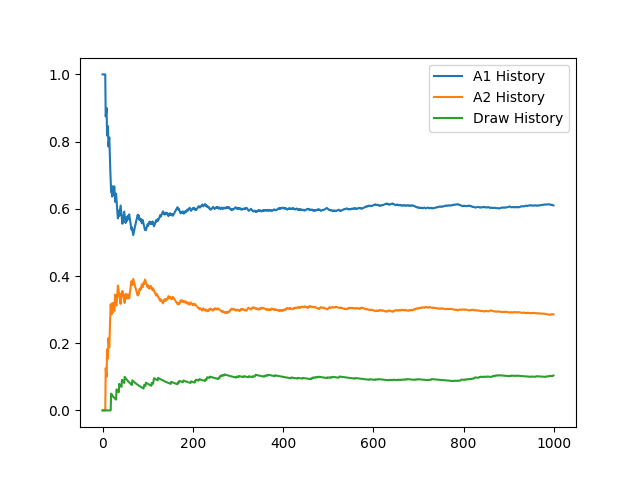
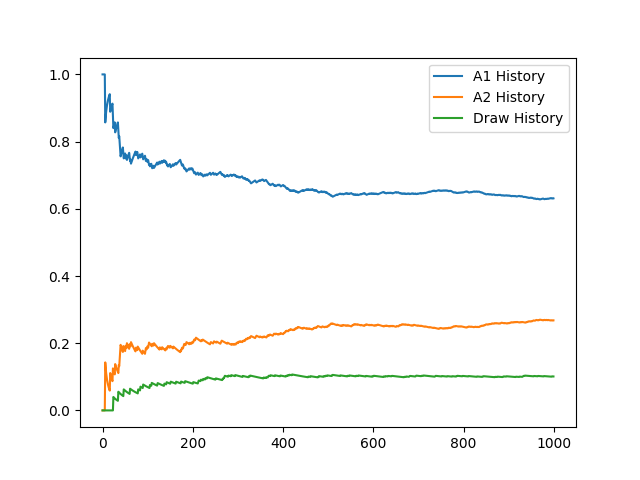
bugfix: negative updates

Changed region(s): [[0.1562, 0.5625, 0.875, 0.875], [0.1562, 0.1562, 0.875, 0.5], [0.4062, 0.7812, 0.8438, 0.8125]]

diff --git a/main.py b/main.py
@@ -1,9 +1,13 @@
+from pandas.core import window
 from agents import Agent, RandomPolicy, TDPolicy 
 from tictactoegame import Game
 from matplotlib import pyplot as plt
+import pandas as pd
 
 class Match:
     def __init__(self, agent_1: Agent, agent_2: Agent):
+        assert set([agent_2.mark, agent_1.mark]) == set(["x", "o"])
+
         self.agent_1 = agent_1
         self.agent_2 = agent_2
 
@@ -11,8 +15,12 @@ class Match:
         won = False
         winner = None
         turn = 0
+        if self.agent_2.mark == "x": 
+            order = [self.agent_2, self.agent_1]
+        else:
+            order = [self.agent_1, self.agent_2]
         while won is False and turn < 9:
-            moving_agent = [self.agent_1, self.agent_2][turn % 2]
+            moving_agent = order[turn % 2]
             game.update_state(moving_agent.predict(game))
             turn += 1
             if game.wins("x") or game.wins("o"):
@@ -21,28 +29,54 @@ class Match:
         return winner
 
 if __name__ == "__main__":
-    a_1 = Agent(TDPolicy(0.01, None, "x"), "x")
-    a_2 = Agent(RandomPolicy(), "o")
+    a_1 = Agent(TDPolicy(0.01, 0.1, None, "o"), "o")
+    # a_2 = Agent(TDPolicy(0.01, None, "o"), "o")
+    a_2 = Agent(RandomPolicy(), "x")
+    # a_1 = Agent(RandomPolicy(), "x")
     m = Match(a_1, a_2)
     a1_wins, a2_wins, draws, total = 0,0,0,0
     a_1_history, a_2_history, draw_history = [], [], []
+    history = []
 
-    for i in range(1000):
+    num_games = 1000000
+    for i in range(num_games):
         g = Game()
         winner = m.play(g)
         if winner == a_1:
             a1_wins += 1
+            history.append(1)
         elif winner == a_2:
             a2_wins += 1
+            history.append(-1)
         else:
             draws += 1
+            history.append(0)
         total += 1
-        draw_history.append(draws/total)
-        a_2_history.append(a2_wins/total)
-        a_1_history.append(a1_wins/total)
+        if i % (num_games/100) == 0:
+            print(f"{(100*i)/num_games}%")
+            valuefunc = set([a_1.policy.valuefunc[k] for k in a_1.policy.valuefunc.keys()])
+            
+            print(len(valuefunc))
 
-    plt.plot(a_1_history, label="A1 History")
-    plt.plot(a_2_history, label="A2 History")
-    plt.plot(draw_history, label="Draw History")
-    plt.legend()  # Add a legend to differentiate lines
-    plt.savefig("test.png")
+    df = pd.DataFrame({"game_number": range(len(history)), "result": history})
+
+
+    df["rolling_win_rate_a1"] = df["result"].rolling(window=300).apply(lambda x: (x > 0).mean(), raw=True)
+    df["rolling_win_rate_a2"] = df["result"].rolling(window=300).apply(lambda x: (x < 0).mean(), raw=True)
+    df["rolling_draw_rate"] = df["result"].rolling(window=300).apply(lambda x: (x == 0).mean(), raw=True)
+
+    # Plotting
+    plt.figure(figsize=(12, 6))
+
+    plt.plot(df["game_number"], df["rolling_win_rate_a1"], label="Agent 1 Win Rate", color="blue")
+    plt.plot(df["game_number"], df["rolling_win_rate_a2"], label="Agent 2 Win Rate", color="red")
+    plt.plot(df["game_number"], df["rolling_draw_rate"], label="Draw Rate", color="gray")
+    plt.axhline(0.5, color="black", linestyle="--", label="50% Threshold")
+
+    plt.xlabel("Game Number")
+    plt.ylabel("Rate")
+    plt.title("Rolling Win/Draw Rates Over Time")
+    plt.legend()
+    plt.grid()
+    plt.tight_layout()
+    plt.show()

diff --git a/agents.py b/agents.py
@@ -1,5 +1,5 @@
 from ast import Load
-from random import shuffle
+from random import shuffle, random
 import pickle
 from tictactoegame import Game 
 from abc import ABC, abstractmethod
@@ -19,10 +19,11 @@ class RandomPolicy(Policy):
         return free_states[0]
 
 class TDPolicy(Policy):
-    def __init__(self, step_size_parameter: float, pickle_path: str|None, mark:str) -> None:
+    def __init__(self, step_size_parameter: float, exploration_parameter: float, pickle_path: str|None, mark:str) -> None:
         super().__init__()
         self.mark = mark
         self.step_size_parameter = step_size_parameter
+        self.exploration_parameter = exploration_parameter
         
         if pickle_path is None:
             self.valuefunc = self._init_valuefunc()
@@ -59,27 +60,34 @@ class TDPolicy(Policy):
             assert type(value_func) == dict
             return value_func
 
-    def update(self, cur_state:  float, new_val: float):
+    def update(self, cur_state:  int, new_val: float):
         cur_val = self.valuefunc[cur_state]
-        self.valuefunc[cur_state] = cur_val + self.step_size_parameter * (new_val - cur_val)
+        updatestep = cur_val + self.step_size_parameter * (new_val - cur_val)
+        assert 0 <= updatestep <= 1.0 
+        self.valuefunc[cur_state] = updatestep
 
     def predict(self, game: Game, checkvalue: str) -> int:
         free_states = game.free_states(checkvalue)
         shuffle(free_states)
-        best_val = -1
-        best_state = None
-        for state in free_states:
-            if self.valuefunc[state] > best_val:
-                best_state = state
 
-        if best_state is None:
-            raise Exception("no best state")
+        if random() > self.exploration_parameter:
+            best_val = -1
 
-        self.update(game._get_state_num(), best_val)
+            best_state = None
+            for state in free_states:
+                if self.valuefunc[state] > best_val:
+                    best_state = state
+                    best_val = self.valuefunc[state]
 
-        return best_state
+            if best_state is None:
+                raise Exception("no best state")
+            self.update(game._get_state_num(), best_val)
 
+            return best_state
+        else:
+            return free_states[0]
 
+        
 
 
 class Agent:
